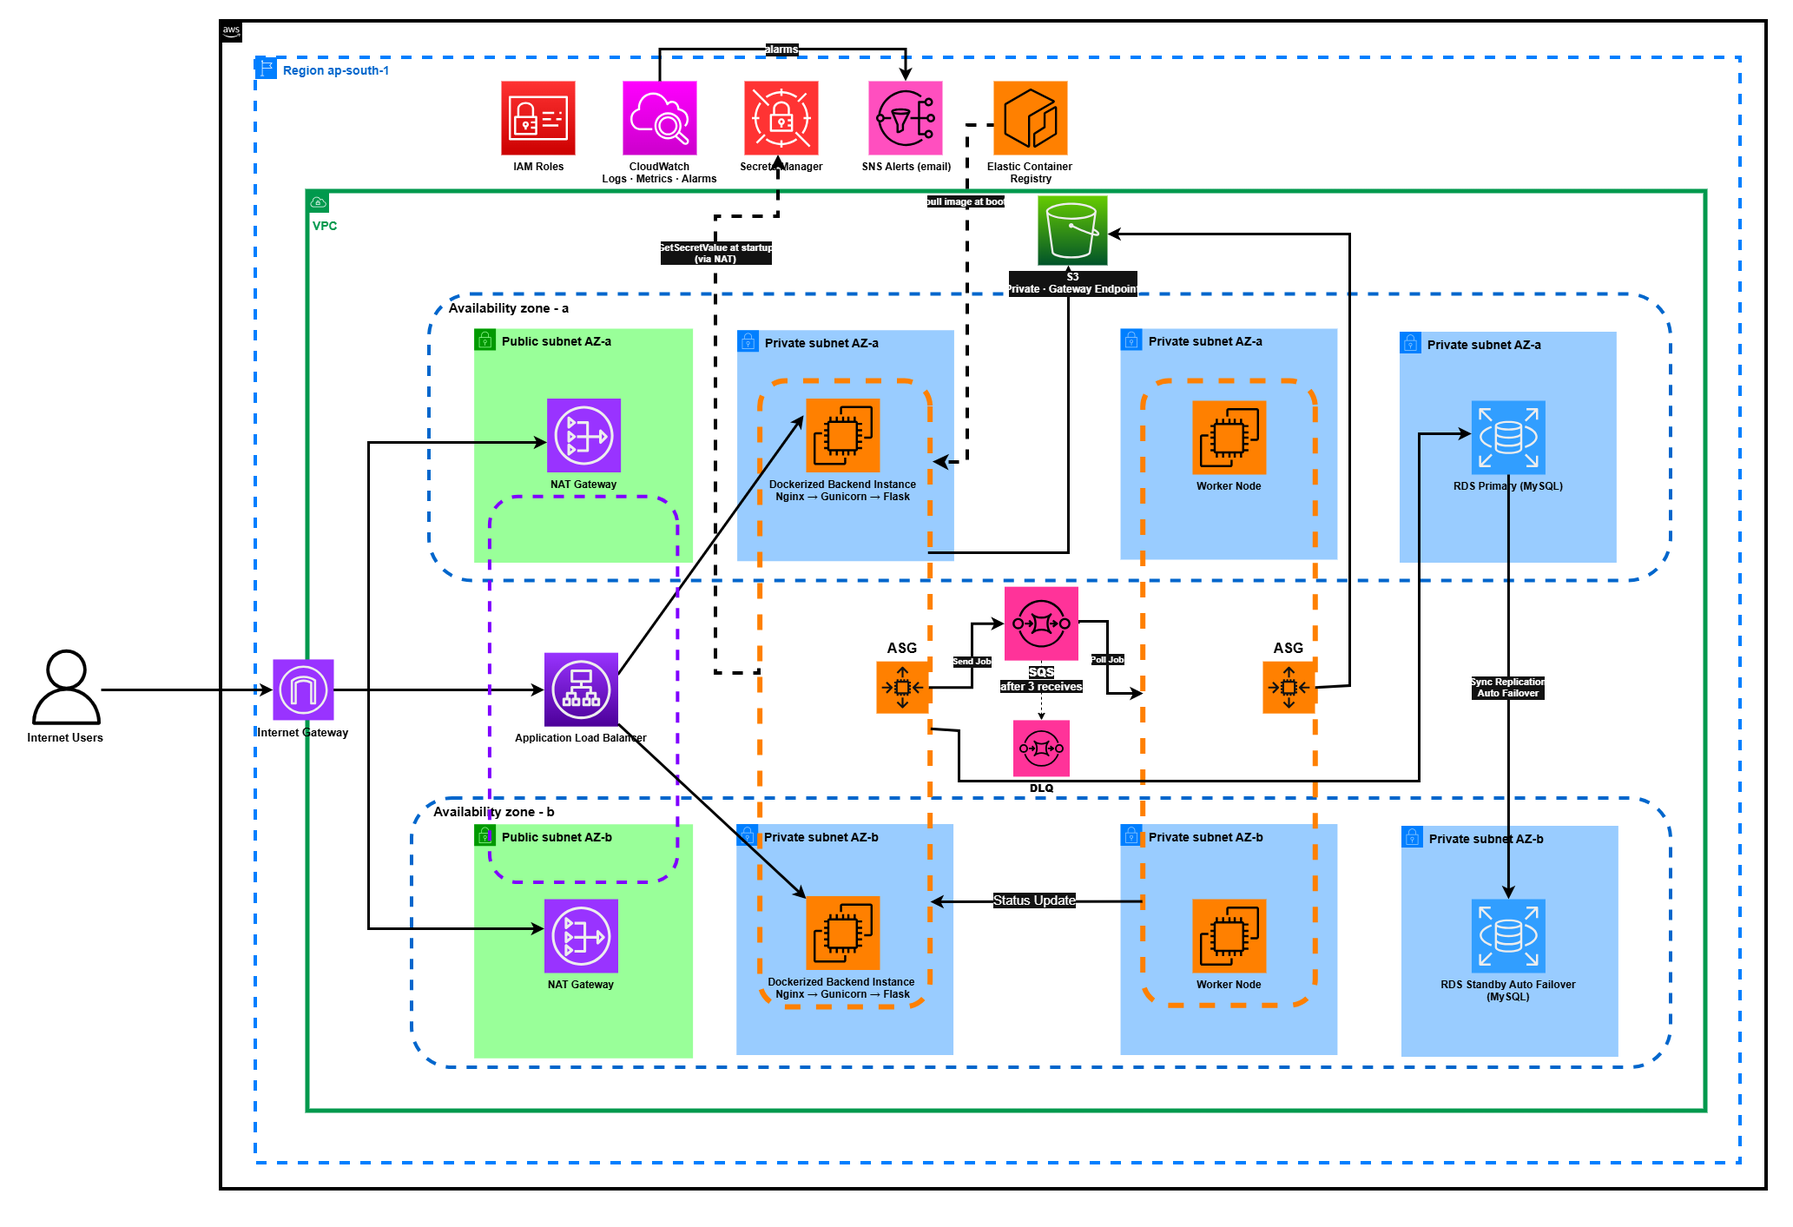
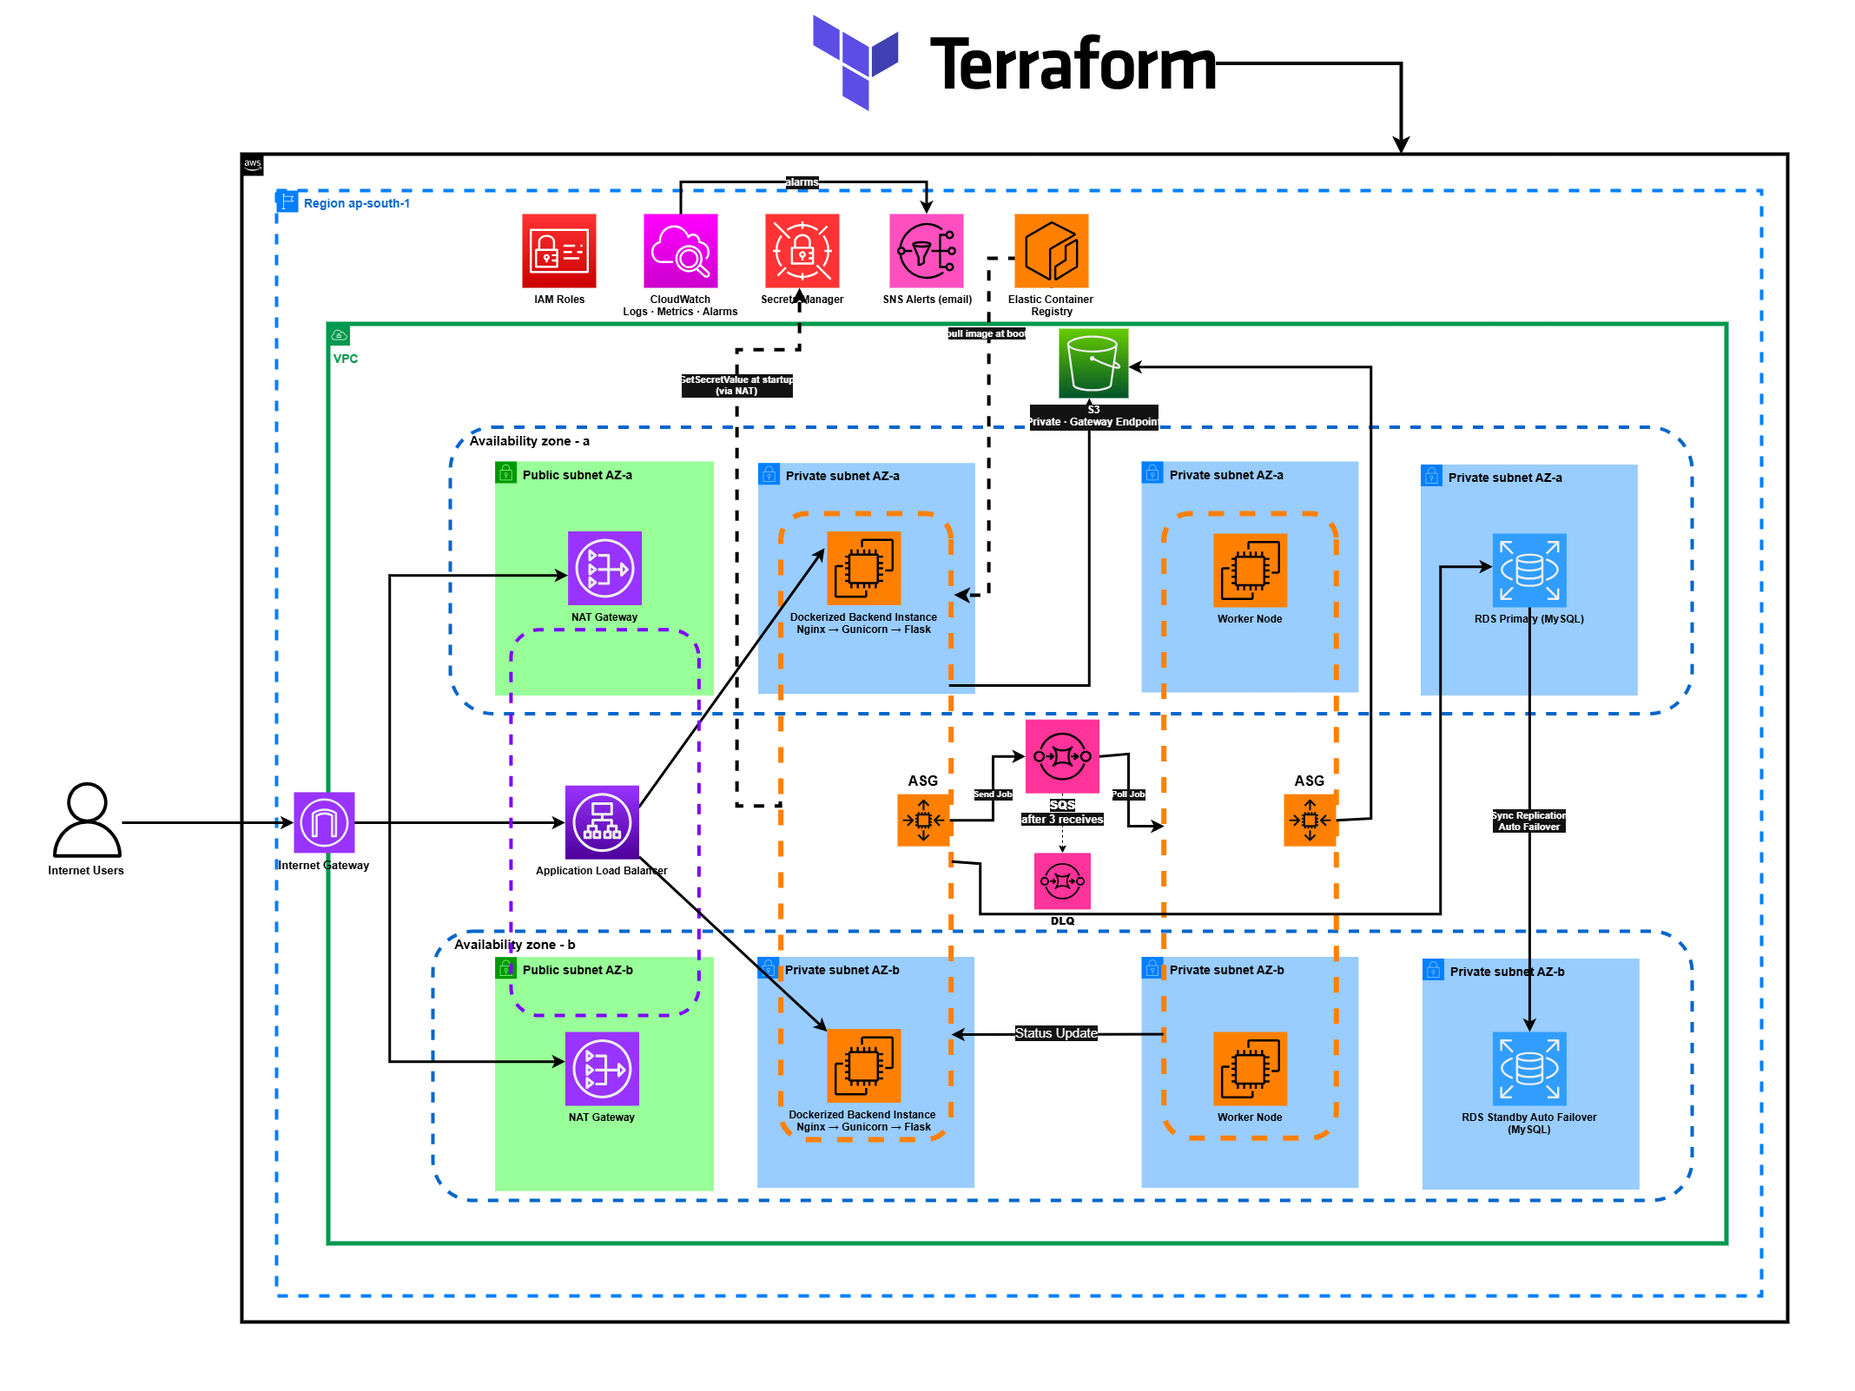
Update architecture diagram

Changed region(s): [[0.0, 0.0, 0.9918, 0.9653], [0.124, 0.0, 0.2169, 0.0623]]

diff --git a/README.md b/README.md
@@ -19,7 +19,7 @@ The interesting part of this project is **not** the application — it's the **d
 | **Region** | `ap-south-1` (Mumbai), across **2 Availability Zones** |
 | **Pattern** | Three-tier (web → app → data) + async worker tier decoupled via SQS |
 | **Compute** | Dockerized Flask backend + bare-Python worker fleet, both in Auto Scaling Groups |
-| **Deploy model** | Immutable artifacts — ECR image (backend) and baked AMI (worker), rolled out via Instance Refresh |
+| **Deploy model** | Declarative IaC (Terraform + Packer) + Immutable artifacts (ECR image & baked AMI) via Jenkins CI/CD |
 
 ### Impact at a Glance
 
@@ -30,7 +30,7 @@ What re-architecting the legacy module onto AWS actually changed.
 | **Availability** | Single automation server — a single point of failure | 2-AZ Auto Scaling fleet (min 2); survives instance **and** AZ loss |
 | **Deployment** | Manual, multi-step, per-server patching | One `git push` → fully automated; **rollback = 1 config change** |
 | **Job durability** | In-flight job lost if the server crashed | **Zero job loss** — SQS re-delivers; DLQ isolates repeat failures after 3 tries |
-| **Duplicate work** | N/A (one server) | **Exactly one** result per job, enforced by SQS visibility timeout (chaos-tested) |
+| **Duplicate work** | N/A (one server) | **At-least-once job processing**, enforced by SQS visibility timeout (chaos-tested) |
 | **Worker concurrency** | ~5 jobs on one box | Up to **ASG-max (4) × `MAX_CONCURRENT_JOBS` (5) ≈ 20** concurrent jobs, auto-scaled |
 | **Secrets** | Encrypted files + decrypt key on disk | **Zero stored credentials** — Secrets Manager fetched via IAM role at boot |
 
@@ -50,7 +50,102 @@ What re-architecting the legacy module onto AWS actually changed.
 
 ---
 
-## 3. CI/CD Deployment Workflow
+## 3. Infrastructure as Code (IaC) & Golden AMIs (Packer & Terraform)
+
+The entire AWS infrastructure and compute image baking are fully automated using **Packer** and **Terraform**, making the platform reproducible and significantly reducing configuration drift.
+
+### Provisioning & Deployment Architecture Diagram
+
+```text
++-----------------------------------------------------------------------------------+
+| PHASE 1: Golden AMI Baking (Packer)                                               |
+|                                                                                   |
+|  [ Local Machine ]                                                                |
+|        |                                                                          |
+|        +---> packer build backend.pkr.hcl  --> [ Backend Golden AMI  ]             |
+|        |                                       (Docker + Nginx + App Image)       |
+|        |                                                                          |
+|        +---> packer build worker.pkr.hcl   --> [ Worker Golden AMI   ]             |
+|                                                (Python 3.11 + systemd + deps)     |
++-------------------------------------------+---------------------------------------+
+                                            |
+                                            v (Pass AMI IDs to terraform.tfvars)
++-------------------------------------------+---------------------------------------+
+| PHASE 2: Declarative Infrastructure Provisioning (Terraform)                       |
+|                                                                                   |
+|  [ terraform apply ]                                                              |
+|        |                                                                          |
+|        v                                                                          |
+|   +---------------------------------------------------------------------------+   |
+|   | AWS Region: ap-south-1 (2 Availability Zones)                             |   |
+|   |                                                                           |   |
+|   |   +--------------------+     +----------------------------------------+   |   |
+|   |   | Public Subnets     |     | Private Subnets                        |   |   |
+|   |   |  - Public ALB      |     |  - Backend ASG (Backend Golden AMI)   |   |   |
+|   |   |  - NAT Gateways    | ==> |  - Worker ASG  (Worker Golden AMI)    |   |   |
+|   |   |  - Jenkins EC2     |     |  - Multi-AZ RDS MySQL                  |   |   |
+|   |   +--------------------+     +----------------------------------------+   |   |
+|   |                                                                           |   |
+|   |   +-------------------------------------------------------------------+   |   |
+|   |   | Supporting AWS Services & Security                                |   |   |
+|   |   |  - SQS Job Queue & DLQ     - AWS Secrets Manager (Auto Creds)      |   |   |
+|   |   |  - S3 Storage & VPC Endpt  - CloudWatch Alarms & SNS Email Alerts   |   |   |
+|   |   |  - Amazon ECR Registry   - SSM Parameter Store                    |   |   |
+|   |   +-------------------------------------------------------------------+   |   |
+|   +---------------------------------------------------------------------------+   |
++-------------------------------------------+---------------------------------------+
+                                            |
+                                            v (Infrastructure Ready)
++-------------------------------------------+---------------------------------------+
+| PHASE 3: Continuous Deployment Loop (Jenkins CI/CD)                               |
+|                                                                                   |
+|   [ Developer Git Push ] --> [ Jenkins Pipeline ]                                 |
+|                                   |                                               |
+|    +------------------------------+------------------------------+                |
+|    | (Backend Push)                                              | (Worker Push)  |
+|    v                                                             v                |
+|  Docker Push -> ECR                       SSM RunCommand -> Bake Worker AMI       |
+|  Update /kpi/backend/image-tag (SSM)      Update Launch Template version           |
+|  Backend ASG Instance Refresh             Worker ASG Instance Refresh             |
++-----------------------------------------------------------------------------------+
+```
+
+### Phase 1 — Golden AMI Baking (Packer)
+
+Located in [`packer/`](packer/), Packer builds two generic, pre-configured Amazon Linux 2023 "Golden AMIs" before infrastructure provisioning:
+
+* **Backend AMI** ([`packer/backend.pkr.hcl`](packer/backend.pkr.hcl)): Installs Docker, Nginx, compiles the local backend container image (`kpi-backend:latest`), and configures Nginx reverse-proxy rules forwarding port 80 to port 5000.
+* **Worker AMI** ([`packer/worker.pkr.hcl`](packer/worker.pkr.hcl)): Installs Python 3.11, worker libraries (`requirements-automation.txt`), and registers the `kpi-automation` systemd unit.
+
+### Phase 2 — Declarative Infrastructure Provisioning (Terraform)
+
+Located in [`terraform/`](terraform/), Terraform manages the entire AWS architecture declaratively:
+
+* **Networking & Security** ([`network.tf`](terraform/network.tf), [`security_groups.tf`](terraform/security_groups.tf)): VPC (`10.0.0.0/16`), 8 subnets across 2 AZs, Internet Gateway, 2× NAT Gateways, S3 Gateway Endpoint, and strict Security Group chaining.
+* **Storage, Database & Queues** ([`s3.tf`](terraform/s3.tf), [`rds.tf`](terraform/rds.tf), [`sqs.tf`](terraform/sqs.tf), [`secrets.tf`](terraform/secrets.tf)): S3 storage bucket, Multi-AZ MySQL RDS, SQS job queue + Dead-Letter Queue, and auto-generated Secrets Manager credentials.
+* **Compute & Load Balancing** ([`alb.tf`](terraform/alb.tf), [`backend_asg.tf`](terraform/backend_asg.tf), [`worker_asg.tf`](terraform/worker_asg.tf)): Public ALB, Backend ASG registered to Target Group, Worker ASG with SQS target-tracking autoscaling, and dynamic boot user-data scripts ([`user_data/`](terraform/user_data)).
+* **IAM & Observability** ([`iam.tf`](terraform/iam.tf), [`cloudwatch.tf`](terraform/cloudwatch.tf), [`ssm.tf`](terraform/ssm.tf)): Least-privilege IAM instance profiles, CloudWatch log groups, 8 CloudWatch alarms with SNS email alerts, ECR repository, and SSM parameters (`/kpi/backend/image-tag` and `/kpi/automation/ami-id`).
+
+### Quickstart — Bootstrapping the Environment
+
+```bash
+# 1. Bake the Golden AMIs
+cd packer
+packer init .
+packer build backend.pkr.hcl   # output: backend_ami_id
+packer build worker.pkr.hcl    # output: worker_ami_id
+
+# 2. Deploy Infrastructure
+cd ../terraform
+cp terraform.tfvars.example terraform.tfvars
+# Update terraform.tfvars with AMI IDs and alert_email
+terraform init
+terraform apply
+```
+
+After the infrastructure is provisioned, Jenkins handles subsequent application deployments and worker AMI rebuilds.
+
+## 4. CI/CD Deployment Workflow
 
 CI/CD is built around one principle: **never modify a running instance.** Each deploy produces an immutable, versioned artifact and *replaces* instances with it. This makes configuration drift structurally impossible — any instance the ASG launches later (scale-out, health replacement, AZ rebalance) comes up on the exact same artifact.
 
@@ -73,7 +168,7 @@ The pipeline ([`Jenkinsfile`](Jenkinsfile)) is split into **discrete, named stag
 
 ---
 
-## 4. Worker AMI Rebuild Pipeline Workflow
+## 5. Worker AMI Rebuild Pipeline Workflow
 
 The worker is **not** containerized (it's a long-running systemd service), so its deploy artifact is a **freshly baked AMI** rather than a container image. Jenkins automates the entire rebake — scripts in [`ci/worker/`](ci/worker/):
 
@@ -93,7 +188,7 @@ post/always: cleanup.sh     → terminate the temporary builder instance
 
 ---
 
-## 5. Key Features
+## 6. Key Features
 
 - **Highly available across 2 AZs** — every tier (ALB, backend, worker, RDS) spans `ap-south-1a` and `ap-south-1b`, with one NAT Gateway per AZ.
 - **Asynchronous, decoupled processing** — the backend enqueues jobs to **SQS** and returns immediately; a separate worker fleet long-polls and processes them.
@@ -106,7 +201,7 @@ post/always: cleanup.sh     → terminate the temporary builder instance
 
 ---
 
-## 6. AWS Services Used
+## 7. AWS Services & DevOps Tools Used
 
 | Service | Purpose in this project |
 |---|---|
@@ -125,10 +220,12 @@ post/always: cleanup.sh     → terminate the temporary builder instance
 | **Amazon CloudWatch** | Centralized logs (Nginx, Gunicorn, worker, RDS), metrics, and alarms. |
 | **Amazon SNS** | Email alerts fired by CloudWatch Alarms. |
 | **Jenkins** (on EC2) | CI/CD orchestrator — builds, versions, and rolls out both tiers on every push to `main`. |
+| **Terraform (≥ 1.5)** | Declarative Infrastructure as Code (IaC) provisioning VPC, ALB, ASGs, RDS, SQS, IAM, and Secrets. |
+| **Packer (≥ 1.3)** | Automated Golden AMI builder creating reproducible, drift-free base images for compute fleets. |
 
 ---
 
-## 7. System Architecture Explanation
+## 8. System Architecture Explanation
 
 The platform is a **three-tier design with an added asynchronous worker tier**, all inside a single VPC (`10.0.0.0/16`) spanning two AZs.
 
@@ -154,7 +251,7 @@ The platform is a **three-tier design with an added asynchronous worker tier**, 
 
 ---
 
-## 8. Request / Job Processing Flow
+## 9. Request / Job Processing Flow
 
 ```
 Internet user
@@ -177,46 +274,69 @@ Internet user
 
 ---
 
-## 9. Repository Structure
+## 10. Repository Structure
 
 ```
 KPI-Automation-Tool/
 ├── README.md                         
 ├── Jenkinsfile                       # CI/CD pipeline — staged backend + worker deploys
 │
-├── ci/                               # one shell script per pipeline stage
+├── ci/                               # Shell scripts per pipeline stage
 │   ├── backend/                      # build-image, push-image, update-image-tag, refresh-asg
 │   ├── worker/                       # launch-builder, provision, verify, bake,
 │   │                                 #   update-launch-template, refresh-asg, cleanup
 │   ├── lib/                          # shared config (worker-config.sh)
 │   └── rebake-worker-ami.sh          # standalone end-to-end worker-rebake script
 │
-├── docs/                             # diagrams + deployment evidence
-│   ├── architecture.png              # architecture diagram
-│   ├── Jenkins-pipeline.png          # pipeline diagram
-│   ├── official_jenkins_pipeline.png # real Jenkins run (stage view)
+├── docs/                             # Diagrams + deployment evidence
+│   ├── architecture.png              # Architecture diagram
+│   ├── Jenkins-pipeline.png          # Pipeline diagram
+│   ├── official_jenkins_pipeline.png # Real Jenkins run (stage view)
 │   └── Screenshots/                  # AWS console captures used in §10
 │
 ├── kpi-automation-backend/           # Flask web app + API (the "backend" tier)
-│   ├── IMS_backend.py                # main Flask app: auth, KPI routes, S3/SQS/RDS calls
+│   ├── IMS_backend.py                # Main Flask app: auth, KPI routes, S3/SQS/RDS calls
 │   ├── Dockerfile                    # Nginx → Gunicorn → Flask image (pushed to ECR)
 │   ├── requirements.txt
 │   ├── s3_helpers.py                 # S3 get/put helpers (replaces the old Z:\ drive)
-│   ├── db_connect/                   # MySQL handler (now reads creds from Secrets Manager)
-│   └── templates/  static/           # web UI
+│   ├── db_connect/                   # MySQL handler (reads creds from Secrets Manager)
+│   └── templates/  static/           # Web UI
 │
-└── kpi-automation-worker/            # async job processor (the "worker" tier)
-    └── prepost/
-        ├── prepost_api.py            # SQS long-poll consumer (was a Flask job-runner)
-        ├── prepost_runner.py         # per-job orchestration
-        ├── Final_run.py              # Excel/data processing engine (openpyxl)
-        ├── requirements-automation.txt
-        └── VERSION
+├── kpi-automation-worker/            # Async job processor (the "worker" tier)
+│   └── prepost/
+│       ├── prepost_api.py            # SQS long-poll consumer
+│       ├── prepost_runner.py         # Per-job orchestration
+│       ├── Final_run.py              # Excel/data processing engine (openpyxl)
+│       ├── requirements-automation.txt
+│       └── VERSION
+│
+├── packer/                           # Golden AMI automation (Packer)
+│   ├── backend.pkr.hcl               # Backend Golden AMI builder template
+│   ├── worker.pkr.hcl                # Worker Golden AMI builder template
+│   └── scripts/                      # Provisioning scripts (Docker, Python 3.11, systemd)
+│
+└── terraform/                        # Declarative Infrastructure as Code (Terraform)
+    ├── network.tf                    # VPC, 8 subnets (2 AZs), IGW, 2x NAT GW, S3 Endpoint
+    ├── security_groups.tf            # Tiered Security Group firewalls
+    ├── iam.tf                        # Least-privilege IAM roles & instance profiles
+    ├── s3.tf                         # Report storage bucket
+    ├── secrets.tf                    # AWS Secrets Manager (auto-generated DB & Flask keys)
+    ├── rds.tf                        # Multi-AZ MySQL RDS database
+    ├── sqs.tf                        # SQS job queue + Dead-Letter Queue
+    ├── alb.tf                        # Application Load Balancer & Target Group
+    ├── backend_asg.tf                # Backend Auto Scaling Group & Launch Template
+    ├── worker_asg.tf                 # Worker Auto Scaling Group (SQS target tracking)
+    ├── cloudwatch.tf                 # Centralized logs & 8 CloudWatch alarms + SNS
+    ├── ecr.tf                        # Amazon ECR container registry
+    ├── ssm.tf                        # SSM parameters (/kpi/backend/image-tag, /kpi/automation/ami-id)
+    ├── jenkins.tf                    # Jenkins build server instance
+    ├── outputs.tf                    # Terraform output values (app_url, SQS URLs, etc.)
+    └── user_data/                    # EC2 startup templates (backend.sh.tftpl, worker.sh.tftpl)
 ```
 
 ---
 
-## 10. Deployment Evidence
+## 11. Deployment Evidence
 
 > _Screenshots from the live deployment in my AWS account._
 
@@ -279,7 +399,7 @@ KPI-Automation-Tool/
 
 ---
 
-## 11. Engineering Challenges Solved
+## 12. Engineering Challenges Solved
 
 | Challenge | Solution |
 |---|---|
@@ -290,10 +410,11 @@ KPI-Automation-Tool/
 | **Single automation server** = a bottleneck and a single point of failure | Decoupled via SQS so the worker could become a **multi-AZ Auto Scaling Group** with no double-processing. |
 | **Configuration drift** — patching live instances left the AMI stale, so scale-out booted old code | Moved to **immutable artifacts** (ECR image + baked AMI) tied to the git SHA, rolled out via **Instance Refresh**. |
 | **Worker isn't containerized** but still needs drift-free deploys | Built an automated **AMI rebake pipeline** (launch builder → provision via SSM → verify SHA → bake → relink LT → refresh). |
+| **Manual AWS console provisioning** causing configuration drift & setup errors | Automated 100% of AWS infrastructure using **Terraform & Packer** for reproducible, declarative multi-AZ deployments. |
 
 ---
 
-## 12. Security & Reliability Features
+## 13. Security & Reliability Features
 
 **Security**
 
@@ -312,7 +433,7 @@ KPI-Automation-Tool/
 
 ---
 
-## 13. Architecture Decisions & Trade-offs
+## 14. Architecture Decisions & Trade-offs
 
 Every choice below was deliberate and has a cost. Listing the trade-offs is the point — there is no free lunch, and being explicit about what I gave up is more honest (and more useful in an interview) than claiming each decision was strictly optimal.
 
@@ -322,6 +443,7 @@ Every choice below was deliberate and has a cost. Listing the trade-offs is the 
 | **Multi-AZ + ASG for a ~200-user tool** | Resilience and zero-downtime deploys were the actual requirement; HA was a baseline standard, not a scale need. | **Deliberately over-provisioned for the traffic** — costs more than a single box would. | Single EC2 + manual restart (cheaper, but a SPOF with downtime on every deploy). |
 | **S3 Gateway Endpoint** | S3 traffic stays on the AWS backbone — no NAT data-processing charges, lower latency, tighter security. | One more VPC construct to manage and attach to route tables. | Route S3 through the NAT (simpler, but pays per-GB and widens the egress path). |
 | **Secrets Manager for DB/app secrets** | Native rotation support and clean IAM-scoped access for credentials. | Costs per secret/month vs. free SecureString params. | SSM Parameter Store SecureString (free, used here for non-secret config like image tags). |
+| **Terraform + Packer for Infrastructure** | Declarative IaC and pre-baked Golden AMIs eliminate configuration drift and manual provisioning errors. | Requires maintaining HCL code and learning Packer/Terraform syntax. | AWS CloudFormation / CDK (Terraform offers broader multi-cloud flexibility and cleaner HCL state management). |
 
 ---
 
